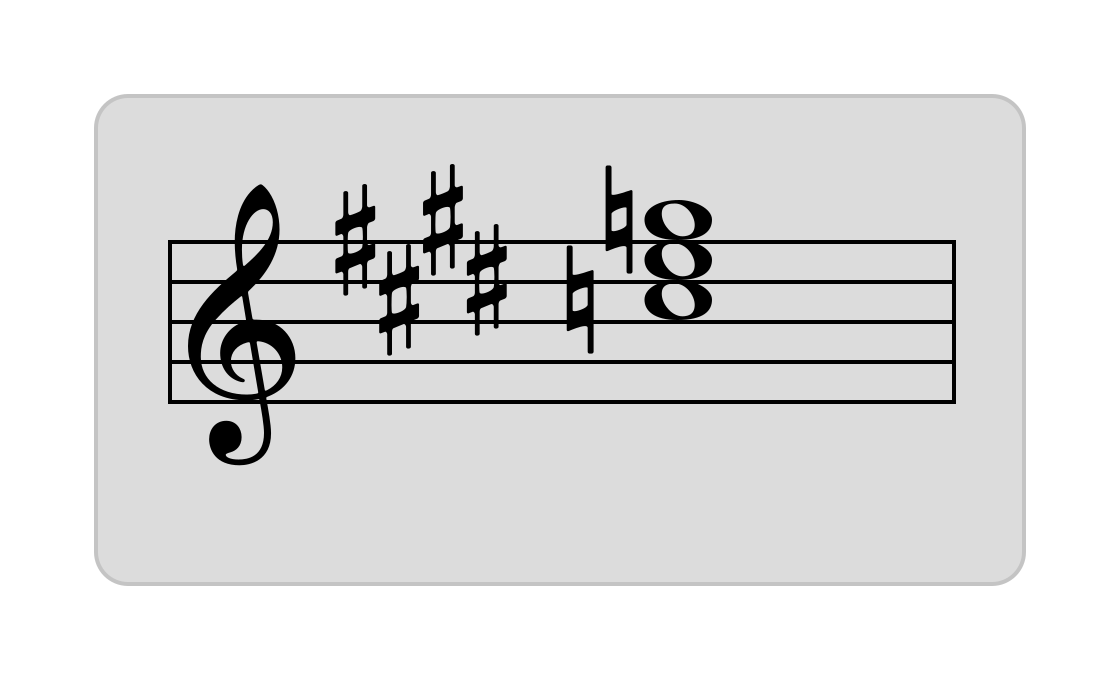
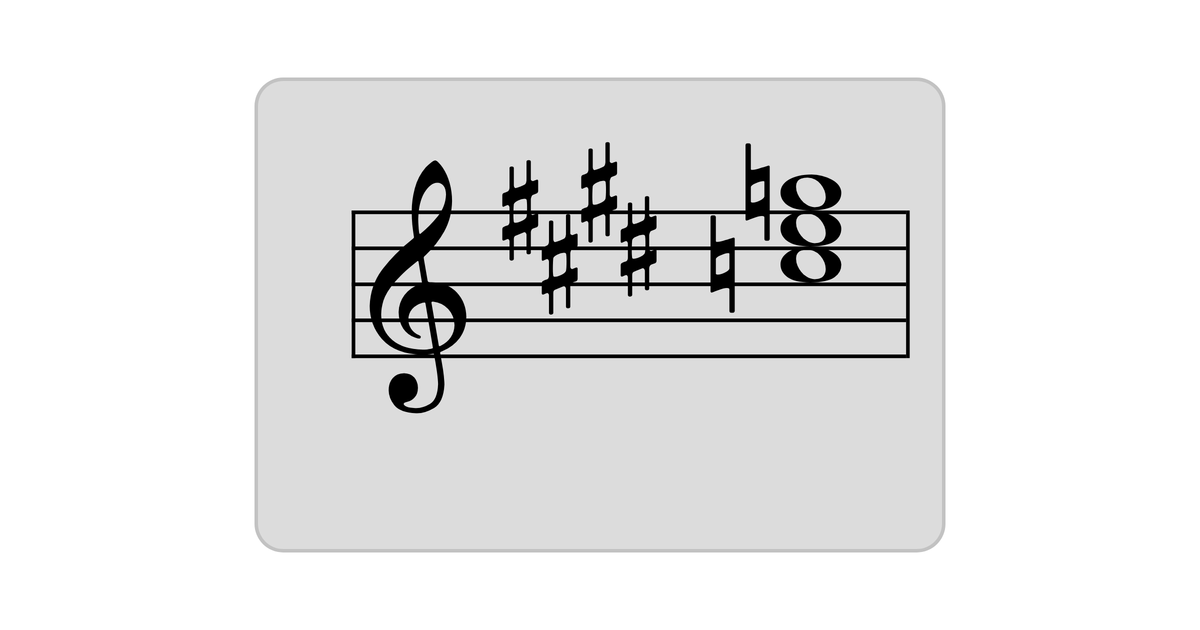
better asset gen

Changed region(s): [[0.0625, 0.1206, 0.9375, 0.9048]]

diff --git a/scripts/generate-promo/generate-promo.ts b/scripts/generate-promo/generate-promo.ts
@@ -2,122 +2,126 @@
 export {}; // makes this a module so its top-level names don't clash with other scripts
 const sharp = require("sharp");
 const fs = require("fs");
+const os = require("os");
 const path = require("path");
-const { JSDOM } = require("jsdom");
-const opentype = require("opentype.js");
-const tsconfigPaths = require("tsconfig-paths");
+const { spawn, spawnSync } = require("child_process");
 
-/** Renders the promo figures with VexFlow (SVG, in jsdom) and saves each as public/<slug>.png.
- * No browser or running server needed. The figure definitions below are the source. */
+/** Screenshots each promo page (src/app/promo/<slug>/page.tsx) in headless Chrome and saves it
+ * as public/<slug>.png. Reuses a dev server already running at PROMO_BASE_URL, else starts one. */
+
+const SLUGS: string[] = ["whats-wrong-with-music-theory"];
 
 const ROOT = path.join(__dirname, "../..");
 const PUBLIC_DIR = path.join(ROOT, "public");
+// 1200x630 is the 1.91:1 ratio social platforms crop link previews to.
+const OUT_WIDTH = 1200;
+const OUT_HEIGHT = 630;
+const RENDER_SCALE = 2;
+const DEFAULT_BASE_URL = "http://localhost:3000";
+const OWN_SERVER_PORT = 3100;
+const SERVER_TIMEOUT_MS = 180_000;
 
-// Lets the app's "@/..." imports resolve when running outside Next.
-tsconfigPaths.register({ baseUrl: ROOT, paths: { "@/*": ["src/*"] } });
+const CHROME_CANDIDATES: string[] = [
+  process.env.CHROME_PATH ?? "",
+  "C:/Program Files/Google/Chrome/Application/chrome.exe",
+  "C:/Program Files (x86)/Google/Chrome/Application/chrome.exe",
+  "C:/Program Files (x86)/Microsoft/Edge/Application/msedge.exe",
+  "/Applications/Google Chrome.app/Contents/MacOS/Google Chrome",
+  "/usr/bin/google-chrome",
+  "/usr/bin/chromium",
+].filter(Boolean);
 
-const SCALE = 4;
-const STAFF_WIDTH = 200;
-const STAFF_HEIGHT = 90;
-const CARD_PADDING = 16;
-const CARD_RADIUS = 8;
-const CARD_FILL = "#dcdcdc";
-const CARD_STROKE = "#c4c4c4";
-const MARGIN = 24;
+function findChrome(): string {
+  const found = CHROME_CANDIDATES.find((candidate) => fs.existsSync(candidate));
+  if (!found) throw new Error("Chrome/Edge not found. Set CHROME_PATH to its executable.");
+  return found;
+}
 
-const PX_PER_PT = 4 / 3;
-
-/** VexFlow draws notation as <text> in the Bravura font, which the SVG rasterizer doesn't have.
- * Swap each one for the equivalent outline path. */
-function textToPaths(holder: Element, font: any): void {
-  for (const text of Array.from(holder.querySelectorAll("text"))) {
-    const sizePt = parseFloat(text.getAttribute("font-size") ?? "10");
-    const x = parseFloat(text.getAttribute("x") ?? "0");
-    const y = parseFloat(text.getAttribute("y") ?? "0");
-    const d = font.getPath(text.textContent ?? "", x, y, sizePt * PX_PER_PT).toPathData(3);
-    const path = text.ownerDocument.createElementNS("http://www.w3.org/2000/svg", "path");
-    path.setAttribute("d", d);
-    path.setAttribute("stroke", "none");
-    text.replaceWith(path);
+async function isUp(url: string): Promise<boolean> {
+  try {
+    return (await fetch(url)).ok;
+  } catch {
+    return false;
   }
 }
 
-/** jsdom has no canvas, which VexFlow uses to measure glyph sizes while laying out the staff.
- * Answer those measurements from the Bravura font file instead. */
-function installTextMeasurement(window: any, font: any): void {
-  window.HTMLCanvasElement.prototype.getContext = () => ({
-    font: "",
-    measureText(this: { font: string }, text: string) {
-      const match = /(\d+(?:\.\d+)?)\s*(pt|px)/.exec(this.font);
-      const sizePx = match ? parseFloat(match[1]) * (match[2] === "pt" ? PX_PER_PT : 1) : 10 * PX_PER_PT;
-      const box = font.getPath(text, 0, 0, sizePx).getBoundingBox();
-      return {
-        width: font.getAdvanceWidth(text, sizePx),
-        actualBoundingBoxAscent: -box.y1,
-        actualBoundingBoxDescent: box.y2,
-        actualBoundingBoxLeft: -box.x1,
-        actualBoundingBoxRight: box.x2,
-      };
-    },
-  });
+async function waitUntilUp(url: string): Promise<void> {
+  const deadline = Date.now() + SERVER_TIMEOUT_MS;
+  while (Date.now() < deadline) {
+    if (await isUp(url)) return;
+    await new Promise((resolve) => setTimeout(resolve, 1000));
+  }
+  throw new Error(`Timed out waiting for ${url}`);
+}
+
+function stopServer(server: { pid: number; kill: () => void }): void {
+  if (process.platform === "win32") {
+    spawnSync("taskkill", ["/pid", String(server.pid), "/T", "/F"]);
+  } else {
+    server.kill();
+  }
+}
+
+async function renderSlug(chrome: string, baseUrl: string, slug: string): Promise<string> {
+  const url = `${baseUrl}/promo/${slug}`;
+  await waitUntilUp(url);
+
+  const tmpPath = path.join(os.tmpdir(), `promo-${slug}-${Date.now()}.png`);
+  const result = spawnSync(chrome, [
+    "--headless=new",
+    "--disable-gpu",
+    "--hide-scrollbars",
+    `--force-device-scale-factor=${RENDER_SCALE}`,
+    `--window-size=${OUT_WIDTH},${OUT_HEIGHT}`,
+    "--virtual-time-budget=8000",
+    `--screenshot=${tmpPath}`,
+    url,
+  ]);
+  if (!fs.existsSync(tmpPath)) {
+    throw new Error(`Chrome produced no screenshot for ${url}: ${result.stderr?.toString()}`);
+  }
+
+  // Headless windows can come out slightly off the requested size, so fix the frame explicitly.
+  const outPath = path.join(PUBLIC_DIR, `${slug}.png`);
+  await sharp(tmpPath)
+    .resize(OUT_WIDTH, OUT_HEIGHT, { fit: "cover", position: "centre" })
+    .png()
+    .toFile(outPath);
+  fs.unlinkSync(tmpPath);
+  return outPath;
 }
 
 async function generatePromo(): Promise<void> {
   console.log("📣 Starting promo image generation...");
+  const chrome = findChrome();
 
-  // VexFlow needs a DOM; set the globals before loading anything that uses it.
-  const dom = new JSDOM("<!doctype html><html><body></body></html>");
-  (global as any).window = dom.window;
-  (global as any).document = dom.window.document;
+  let baseUrl = process.env.PROMO_BASE_URL ?? DEFAULT_BASE_URL;
+  let server: { pid: number; kill: () => void } | null = null;
+  if (await isUp(baseUrl)) {
+    console.log(`🌐 Using the server already running at ${baseUrl}`);
+  } else {
+    baseUrl = `http://localhost:${OWN_SERVER_PORT}`;
+    console.log(`🚀 Starting a dev server on ${baseUrl}...`);
+    server = spawn(
+      process.execPath,
+      [path.join(ROOT, "node_modules/next/dist/bin/next"), "dev", "-p", String(OWN_SERVER_PORT)],
+      { cwd: ROOT, stdio: "ignore" },
+    );
+  }
 
-  const { Factory } = require("vexflow");
-  const { drawStaticStaff } = require("@/utils/StaticStaffRenderer");
-  const { C_MAJOR_TRIAD_IN_E_MAJOR_OCTAVE1 } = require("@/lib/learn/staffFigures");
-
-  const figures: { slug: string; chords: unknown; keySignature?: string }[] = [
-    {
-      slug: "whats-wrong-with-music-theory",
-      chords: C_MAJOR_TRIAD_IN_E_MAJOR_OCTAVE1.chords,
-      keySignature: "E",
-    },
-  ];
-
-  const fontBuffer: Buffer = fs.readFileSync(require.resolve("@vexflow-fonts/bravura/bravura.otf"));
-  const font = opentype.parse(
-    fontBuffer.buffer.slice(fontBuffer.byteOffset, fontBuffer.byteOffset + fontBuffer.byteLength),
-  );
-  installTextMeasurement(dom.window, font);
-  fs.mkdirSync(PUBLIC_DIR, { recursive: true });
-  for (const { slug, chords, keySignature } of figures) {
-    console.log(`🖼 Rendering ${slug}...`);
-    const holder = dom.window.document.createElement("div");
-    holder.id = `staff-${slug}`;
-    dom.window.document.body.appendChild(holder);
-    const factory = new Factory({
-      renderer: { elementId: holder.id, width: STAFF_WIDTH, height: STAFF_HEIGHT },
-    });
-    drawStaticStaff(factory, STAFF_WIDTH, chords, keySignature);
-
-    textToPaths(holder, font);
-    const innerSvg: string = holder.innerHTML;
-    const cardWidth = STAFF_WIDTH + CARD_PADDING * 2;
-    const cardHeight = STAFF_HEIGHT + CARD_PADDING * 2;
-    const svg = `<svg xmlns="http://www.w3.org/2000/svg" width="${cardWidth + MARGIN * 2}" height="${cardHeight + MARGIN * 2}">
-  <rect width="100%" height="100%" fill="#ffffff"/>
-  <rect x="${MARGIN}" y="${MARGIN}" width="${cardWidth}" height="${cardHeight}" rx="${CARD_RADIUS}" fill="${CARD_FILL}" stroke="${CARD_STROKE}"/>
-  <g transform="translate(${MARGIN + CARD_PADDING} ${MARGIN + CARD_PADDING})">${innerSvg}</g>
-</svg>`;
-
-    const outPath = path.join(PUBLIC_DIR, `${slug}.png`);
-    await sharp(Buffer.from(svg), { density: 72 * SCALE })
-      .png()
-      .toFile(outPath);
-    console.log(`✅ Saved ${outPath}`);
+  try {
+    fs.mkdirSync(PUBLIC_DIR, { recursive: true });
+    for (const slug of SLUGS) {
+      console.log(`🖼 Rendering ${slug}...`);
+      console.log(`✅ Saved ${await renderSlug(chrome, baseUrl, slug)}`);
+    }
+  } finally {
+    if (server) stopServer(server);
   }
   console.log("✨ Promo image generation complete!");
 }
 
 generatePromo().catch((error: Error) => {
-  console.error("❌ Error generating promo image:", error.stack ?? error.message);
+  console.error("❌ Error generating promo image:", error.message);
   process.exit(1);
 });

diff --git a/src/app/promo/whats-wrong-with-music-theory/page.tsx b/src/app/promo/whats-wrong-with-music-theory/page.tsx
@@ -1,0 +1,28 @@
+import type { Metadata } from "next";
+
+import { StaticStaffFigure } from "@/components/Learn/StaticStaffFigure";
+import { C_MAJOR_TRIAD_IN_E_MAJOR_OCTAVE1 } from "@/lib/learn/staffFigures";
+
+/** Source for public/whats-wrong-with-music-theory.png, the link preview image for the article.
+ * Not linked from the site. `yarn generate-promo` screenshots this page at 1200x630. */
+export const metadata: Metadata = {
+  title: "Promo: What's Wrong with Music Theory",
+  robots: { index: false, follow: false },
+};
+
+/** Magnifies the figure so it fills the 1200x630 frame. */
+const FIGURE_ZOOM = 3.6;
+
+export default function WhatsWrongPromoPage() {
+  return (
+    <main className="flex h-screen w-screen items-center justify-center overflow-hidden bg-white">
+      <div className="w-[12rem]" style={{ zoom: FIGURE_ZOOM }}>
+        <StaticStaffFigure
+          chords={C_MAJOR_TRIAD_IN_E_MAJOR_OCTAVE1.chords}
+          keySignature="E"
+          caption=""
+        />
+      </div>
+    </main>
+  );
+}

diff --git a/src/app/learn/approach/whats-wrong-with-music-theory/page.tsx b/src/app/learn/approach/whats-wrong-with-music-theory/page.tsx
@@ -15,8 +15,8 @@ import { learnViewMetadata, metadataForSlugPage } from "@/lib/metadata";
 
 const PROMO_IMAGE = {
   url: "/whats-wrong-with-music-theory.png",
-  width: 1120,
-  height: 680,
+  width: 1200,
+  height: 630,
   alt: "A C major chord on a staff in the key of E major, with natural signs cancelling the key signature's sharps",
 };
 
